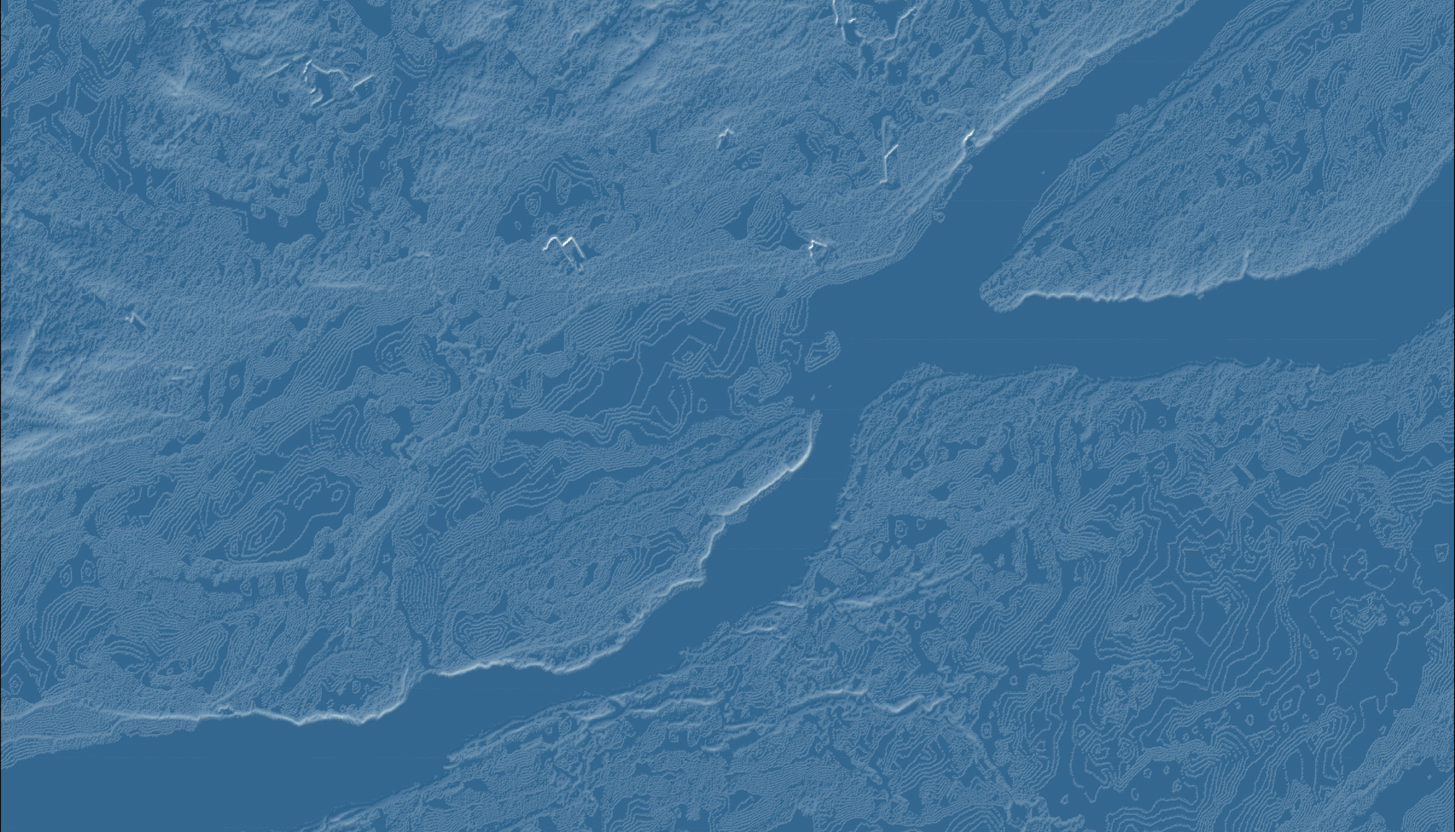
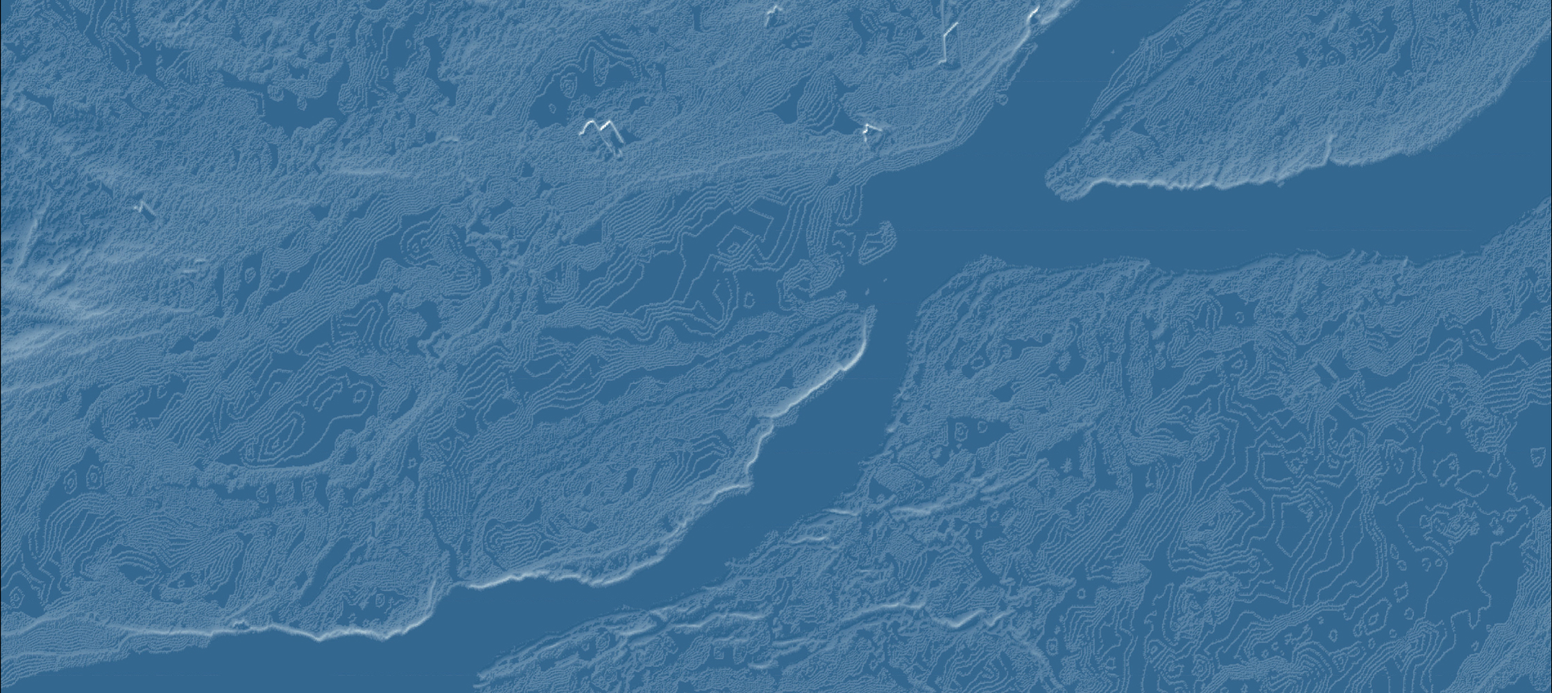
mainPage

Changed region(s): [[0.0, 0.0, 1.0, 1.0], [0.9914, 0.651, 1.0, 0.682]]

diff --git a/CSS/style.css b/CSS/style.css
@@ -6,7 +6,8 @@ html
 
 body
 { font: normal .80em 'trebuchet ms', arial, sans-serif;
-  background: #f7fcf0;
+  
+  
   color: #555;}
 
 p
@@ -96,6 +97,9 @@ ol li
 { margin-left: auto; 
   margin-right: auto;}
 
+#main{background-image: url(../images/HillShade.jpg) ;}
+
+
 #header
 { position: relative;
   background: #4b4b4b url(back.png) repeat-x;
@@ -106,22 +110,45 @@ ol li
   }
 
 
-#banner
-{  /*background: transparent url(../images/torontoskyline2.png) no-repeat;*/
-  width: auto;
-  height: 180px;
-  display: block;
-  margin-left:auto;
-  margin-right: auto;
-  margin-bottom: 20px;
-  border: 10px solid #e0f3db;}
+  #banner
+  {  /*background: transparent url(../images/torontoskyline2.png) no-repeat;*/
+    width: 110%;
+    height: 850px;
+    display: block;
+    background: #7bccc4e3;;
+    
+    }
+  
+    #site_content
+    { 
+      padding: 0px 0 0px 0;
+    }
 
-  #site_content
-  { width: 100%;
-    overflow: hidden;
-    padding: 10px 0 90px 0;
+  
+  #intro-content
+  { 
+
+  background-color: rgb(0,0,0); /* Fallback color */
+  background-color: #575a5a5d; /* Black w/opacity/see-through */
+  color: white;
+  font-weight: bold;
+  border: 3px solid #f1f1f1;
+  position: absolute;
+  top: 60%;
+  left: 50%;
+  transform: translate(-50%, -50%);
+  z-index: 2;
+  width: 90%;
+  padding: 20px;
+  text-align: center;
+  height: 50%;
+
+    
   } 
   
+ 
+
+
 #logo
 { width: 880px;
   position: relative;
@@ -243,7 +270,7 @@ margin-right: auto;
  }
 
  .U-Container{
-  background: #7bccc4;
+  background: #7bccc4d7;
   width: 100%;
   height: 1000px;
  }
@@ -260,7 +287,7 @@ margin-right: auto;
  }
 
  .S-Container{
-  background: #4eb3d3;
+  background: #4eb4d3dc;
   width: 100%;
   height: 1000px;
  }

diff --git a/index.html b/index.html
@@ -45,12 +45,12 @@
 	    
     </div> <!-- ends header section -->
     <div id="site_content">
-      <div >
-        <img src= "images/torontoskyline2.png"  id="banner" >
+      <div id="banner">
+       
       </div>
 	
       <!-- James Serendip owns the following "content" section-->
-      <div id="content"> 
+      <div id="intro-content"> 
         <!-- insert the page content here -->
         <h1>Welcome to Estanbouli, Hillman, Purdham and Serendip</h1>
         <p>We are a Ontario-based consultancy firm offering <strong>Geographic Information Systems</strong> solutions to municipalities and private industry.</p>
@@ -64,12 +64,12 @@
       </div>
     </div>
     <!-- footer-->
-    <footer > 
-      <div id="footer">
-      <p><a href="index.html">Home</a> | <a href="ourteam.html">Our Team</a> | <a href="services.html">Services</a> | <a href="projects.html">Projects</a></p>
-      <p>Copyright &copy; simplestyle_banner | <a href="http://validator.w3.org/check?uri=referer">HTML5</a> | <a href="http://jigsaw.w3.org/css-validator/check/referer">CSS</a> | <a href="http://www.html5webtemplates.co.uk">design from HTML5webtemplates.co.uk</a></p>
-      </div>
-    </footer>
+    <div id="footer">
+      <footer>
+        <p><a href="index.html">Home</a> | <a href="ourteam.html">Our Team</a> | <a href="services.html">Services</a> | <a href="projects.html">Projects</a></p>
+        <p>Copyright &copy; simplestyle_banner | <a href="http://validator.w3.org/check?uri=referer">HTML5</a> | <a href="http://jigsaw.w3.org/css-validator/check/referer">CSS</a> | <a href="http://www.html5webtemplates.co.uk">design from HTML5webtemplates.co.uk</a></p>
+      </footer>
+    </div>
   </div>
 </body>
 </html>

diff --git a/CSS/Ourteam.css b/CSS/Ourteam.css
@@ -59,18 +59,18 @@
   }
 
   #Raghad{
-    background: #0868ac;
+    background: #0868acdf;
   }
 
   #David{
-    background: #7bccc4;
+    background: #7bccc4e3;
   }
 
   #James{
-    background: #4eb3d3;
+    background: #4eb4d3df;
   }
   #Edyn{
-    background: #2b8cbe;
+    background: #2b8dbedf;
   }
 
   h3{
